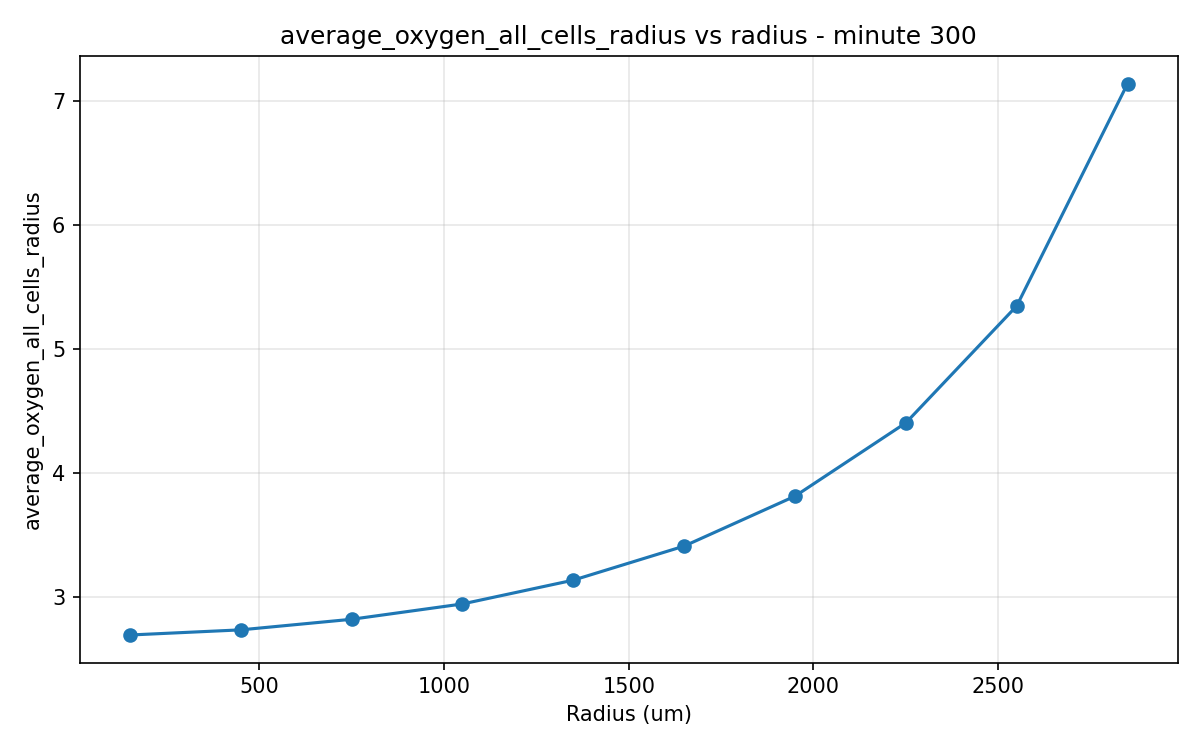
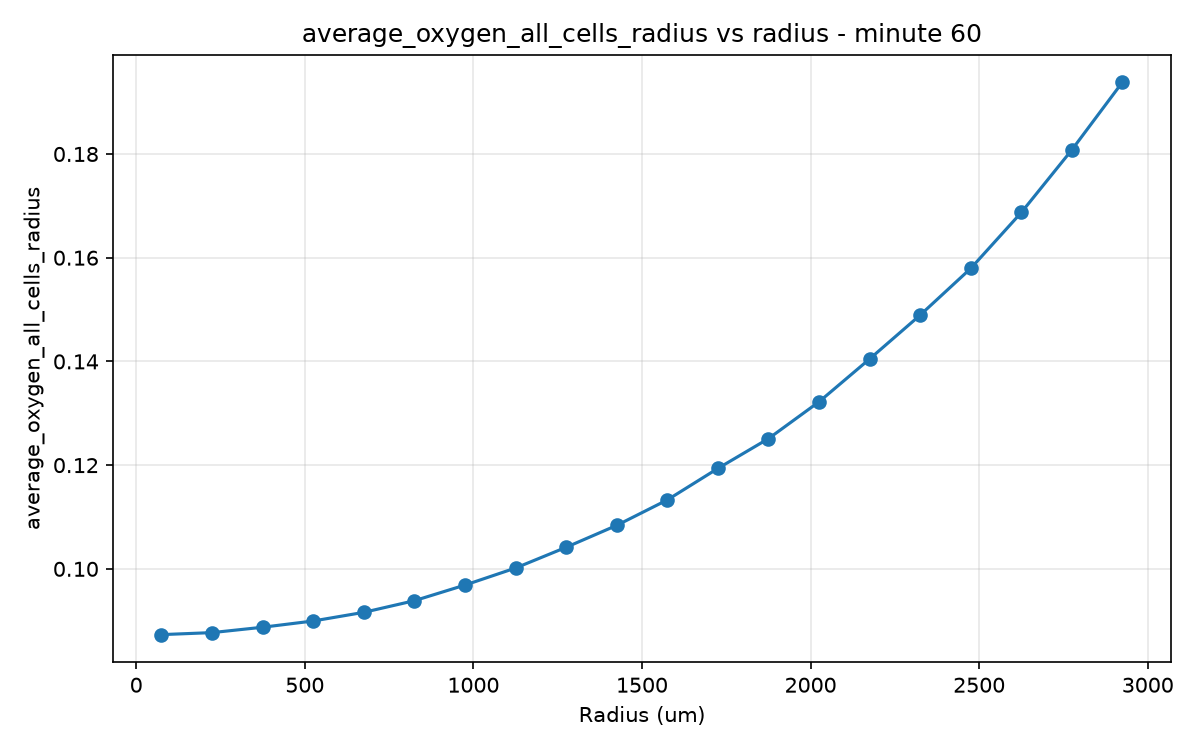
tunning oxygen_reference_level and cancer cell oxygen consumption

diff --git a/abm_calibration/optimize.py b/abm_calibration/optimize.py
@@ -32,7 +32,7 @@ import pandas as pd
 EXPERIMENT_ID = 1
 SEED = 42
 # You can set the number of trials to 0 to skip the optimization and just load the best result from the database
-NUMBER_OF_TRIALS = 2000000
+NUMBER_OF_TRIALS = 1
 # Number of Monte Carlo simulations to run for each trial. Use one for an aproximation of the error with a single montecarlo run
 NUMBER_MONTE_CARLO = 1
 # BioDynaMo directory to execute the comand source thisbdm.sh, you can change it to your own path
@@ -66,8 +66,8 @@ def run_ABM(params, seed, num_cells):
     config = {
         "seed": seed,
         "output_performance_statistics": False,
-        "total_minutes_to_simulate": 60,
-        "output_csv_interval": 600,
+        "total_minutes_to_simulate": 30,
+        "output_csv_interval": 300,
         "bounded_space_length": 6500.0,
         "tumor_shape": "cylinder",
         "output_information_dependent_on_radius": True,
@@ -116,14 +116,20 @@ def compute_error(target_inner, target_outer):
         ],
     )
 
-    # See the value at the minute 60 for the average oxygen level in the simulation data
-    row = df_s[df_s["total_minutes"] == 60].iloc[0]
+    # See the value at the minute 30 for the average oxygen level in the simulation data
+    row = df_s[df_s["total_minutes"] == 30].iloc[0]
     value_border = row["average_oxygen_all_cells_radius_2850_to_3000"]
     value_border_in_mol_m3 = value_border / 585  # Convert from mmHg to mol/m3
     target_value_border = target_outer
     value_center = row["average_oxygen_all_cells_radius_0_to_150"]
     value_center_in_mol_m3 = value_center / 585  # Convert from mmHg to mol/m3
     target_value_center = target_inner
+
+   # Debug print de los 4 valores 
+    print(f"Value border: {value_border_in_mol_m3}")
+    print(f"Target value border: {target_value_border}")
+    print(f"Value center: {value_center_in_mol_m3}")
+    print(f"Target value center: {target_value_center}")
 
    # MSE
     mse = ((value_border_in_mol_m3 - target_value_border) ** 2 + (value_center_in_mol_m3 - target_value_center) ** 2) / 2 
@@ -172,8 +178,8 @@ def compute_error(target_inner, target_outer):
 def objective(trial):
     # Change this: Define the parameters to be optimized and their ranges
     params = {
-        "oxygen_reference_level": trial.suggest_float("oxygen_reference_level", 300.0, 1400.0, step=10.0),
-        "default_oxygen_consumption_tumor_cell": trial.suggest_float("default_oxygen_consumption_tumor_cell", 1, 400.0, step=1),        
+        "oxygen_reference_level": trial.suggest_float("oxygen_reference_level", 130.0, 200.0, step=1),
+        "default_oxygen_consumption_tumor_cell": trial.suggest_float("default_oxygen_consumption_tumor_cell", 10.0, 20.0, step=0.1),        
     }
 
     logging.info(f"Trial {trial.number} | params={params}")
@@ -181,12 +187,16 @@ def objective(trial):
     # Compute the error as the average of the errors from multiple Monte Carlo simulations varying the seed
     total_error = 0
     for seed in np.random.randint(0, 10000, NUMBER_MONTE_CARLO):
+        print(f"Running ABM with seed {seed} and num_cells=2800") 
         run_ABM(params, int(seed), num_cells=2800)
-        error = compute_error(target_inner=0.9, target_outer=0.2)
+        error = compute_error(target_inner=0.09, target_outer=0.19)
         total_error += error
+        print(f"Error for seed {seed}: {error}")
+        print(f"Running ABM with seed {seed} and num_cells=28000")
         run_ABM(params, int(seed), num_cells=28000)
-        error = compute_error(target_inner=0.01, target_outer=0.16)
+        error = compute_error(target_inner=0.002, target_outer=0.16)
         total_error += error
+        print(f"Error for seed {seed}: {error}")
 
     error = total_error / NUMBER_MONTE_CARLO
 

diff --git a/draft/generatecsv.py b/draft/generatecsv.py
@@ -1,0 +1,30 @@
+import json
+import logging
+import subprocess
+from pathlib import Path
+
+import numpy as np
+import optuna
+import pandas as pd
+# Change this: File Parameters for the desired experiment
+EXPERIMENT_ID = 1
+SEED = 42
+# You can set the number of trials to 0 to skip the optimization and just load the best result from the database
+NUMBER_OF_TRIALS = 1
+# Number of Monte Carlo simulations to run for each trial. Use one for an aproximation of the error with a single montecarlo run
+NUMBER_MONTE_CARLO = 1
+# BioDynaMo directory to execute the comand source thisbdm.sh, you can change it to your own path
+BIODYNAMO_DIR = " /home/usuario/Desktop/biodynamo/build/bin/thisbdm.sh"
+EXPERIMENT_DIR = Path("abm_calibration") / f"experiment_{EXPERIMENT_ID}"
+
+# Create an Optuna study to optimize the parameters of the ABM
+study = optuna.create_study(
+    study_name="abm_calibration",
+    storage=f"sqlite:///{EXPERIMENT_DIR / 'abm_optuna.db'}",
+    load_if_exists=True,
+    direction="minimize",
+    sampler=optuna.samplers.TPESampler(seed=SEED),
+)
+
+df = study.trials_dataframe()
+df.to_csv(EXPERIMENT_DIR / "optuna_results.csv", index=False, mode="w")

diff --git a/draft/analysis_radius_oxygen.py b/draft/analysis_radius_oxygen.py
@@ -4,7 +4,7 @@ import matplotlib.pyplot as plt
 
 # ---- settings ----
 CSV_PATH = "./output/data_dependent_on_radius_tumor.csv"
-MINUTE = 60 # change this to the minute you want to plot
+MINUTE = 30 # change this to the minute you want to plot
 ATTRIBUTE = "average_oxygen_all_cells_radius"  # change this to the attribute you want to plot
 DIVIDING_FACTOR = 585  # change this to the factor you want to divide by. Use 525 to pass from mmHg to mol/m3
 # other examples: "average_oncoprotein_radius", "average_oxygen_cancer_cells_radius",
